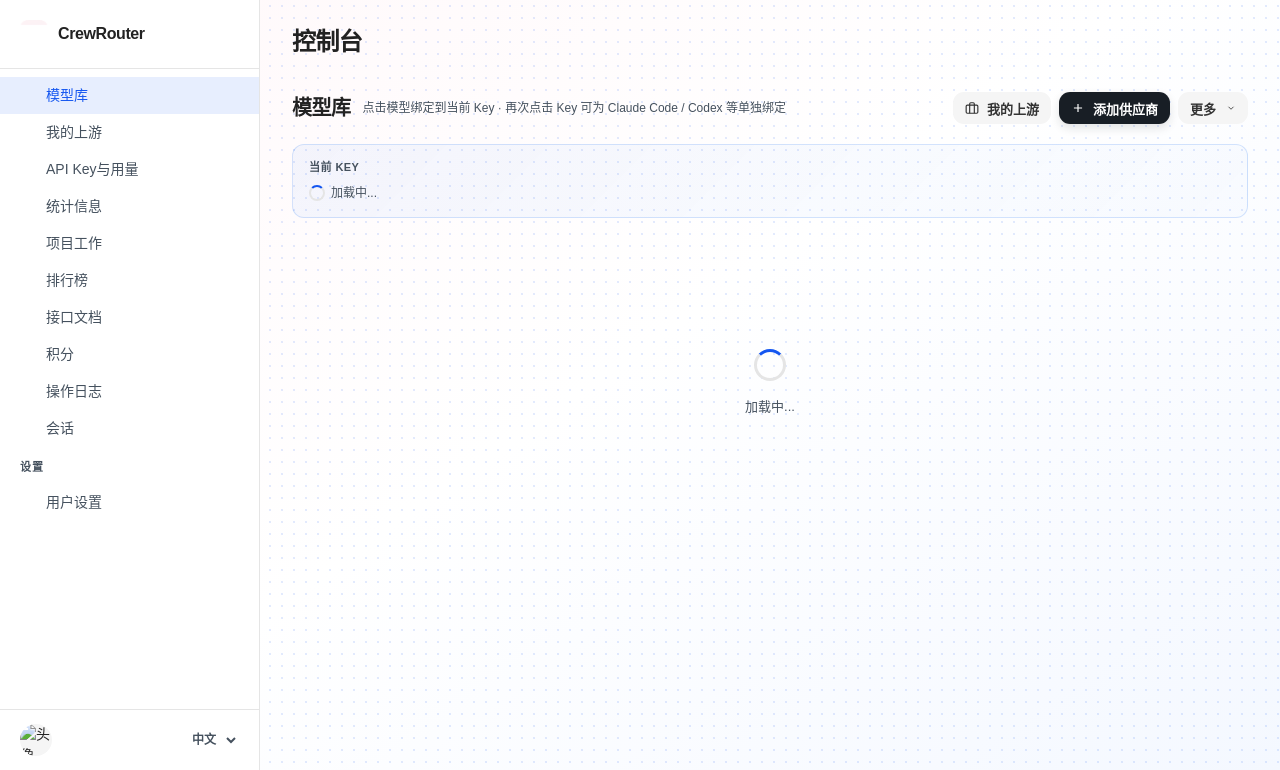
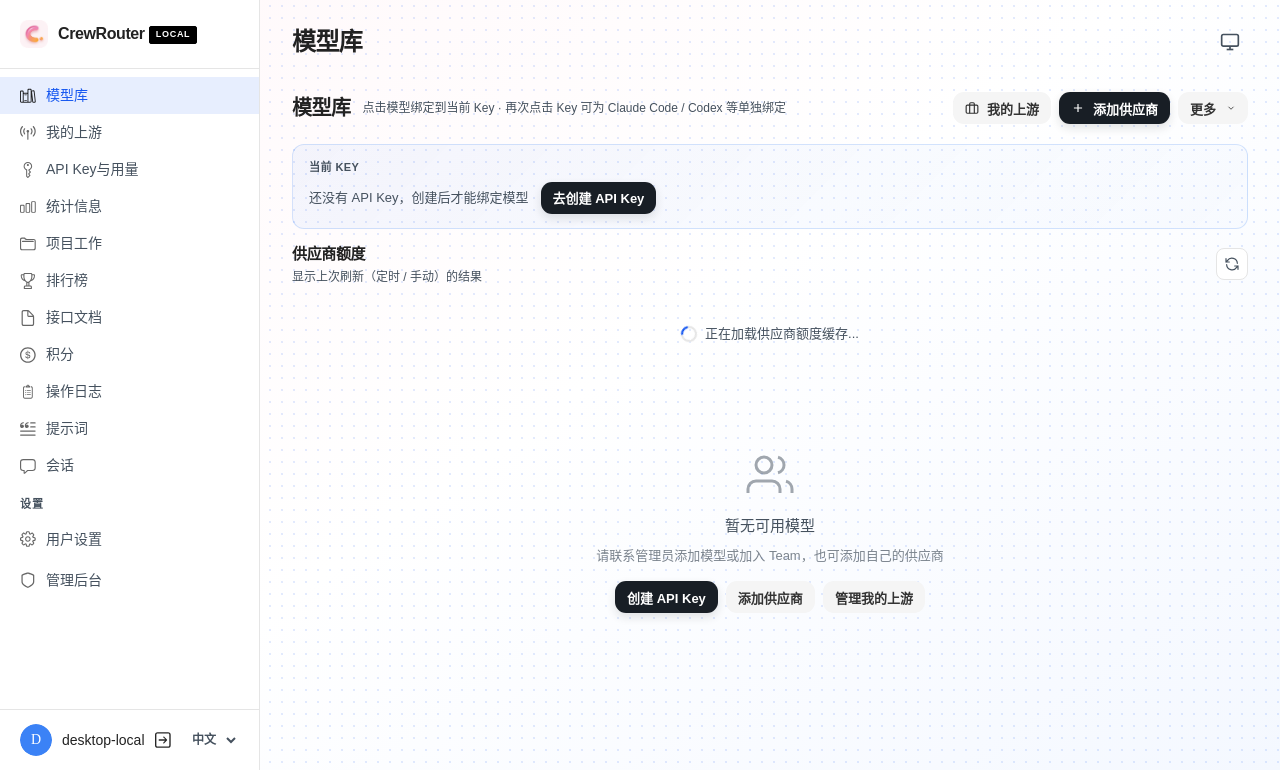
fix: complete Personal model library acceptance

diff --git a/CrewRouter-Desktop/scripts/capture-local-username.js b/CrewRouter-Desktop/scripts/capture-local-username.js
@@ -42,19 +42,19 @@ app.whenReady().then(async () => {
     fs.writeFileSync(path.join(outputDir, 'local-username-oobe-960x700.png'), (await win.webContents.capturePage()).toPNG());
     await win.webContents.executeJavaScript("document.getElementById('local-username').value = 'Desktop Tester'; document.getElementById('local-profile-form').requestSubmit(); void 0", true);
     await waitFor(win, "location.hostname === '127.0.0.1' && (location.pathname === '/console' || location.pathname === '/console/')", 60000);
-    await waitFor(win, "document.body.innerText.includes('模型库') && !document.body.innerText.includes('登录') && !document.body.innerText.includes('正在加载')", 30000);
+    await waitFor(win, "document.body.innerText.includes('模型库') && !document.body.innerText.includes('登录') && document.getElementById('modelLibraryContent')?.innerText.includes('暂无可用模型')", 30000);
     await sleep(1500);
-    fs.writeFileSync(path.join(outputDir, 'local-username-console-960x700.png'), (await win.webContents.capturePage()).toPNG());
+    fs.writeFileSync(path.join(outputDir, 'personal-model-library-960x700.png'), (await win.webContents.capturePage()).toPNG());
     win.setSize(600, 700);
     await sleep(500);
-    fs.writeFileSync(path.join(outputDir, 'local-username-console-600x700.png'), (await win.webContents.capturePage()).toPNG());
-    const details = await win.webContents.executeJavaScript(`(async () => { const me = await fetch('/auth/me').then(r => r.json()).catch(() => ({})); return { href: location.href, body: document.body.innerText.slice(0, 12000), username: me.username || null, hasLogin: /登录|Passport|密码/.test(document.body.innerText), hasSetup: location.pathname.includes('setup'), hasUnavailableLibrary: document.getElementById('modelLibraryContent')?.innerText.includes('Personal 版本地服务不提供共享模型库。'), hasNoBinding: document.getElementById('modelLibraryBindingSummary')?.innerText.includes('不需要绑定当前 Key'), keySelectorHidden: getComputedStyle(document.getElementById('modelLibraryKeySelector'))?.display === 'none' }; })()`, true);
-    if (details.hasLogin || details.hasSetup || details.username !== 'Desktop Tester' || !details.body.includes('模型库') || !details.hasUnavailableLibrary || !details.hasNoBinding || !details.keySelectorHidden) throw new Error(`Console acceptance failed: ${JSON.stringify(details)}`);
-    console.log(JSON.stringify({ phase, screenshots: ['local-username-oobe-960x700.png', 'local-username-console-960x700.png', 'local-username-console-600x700.png'], href: details.href, hasLogin: details.hasLogin, hasSetup: details.hasSetup }));
+    fs.writeFileSync(path.join(outputDir, 'personal-model-library-600x700.png'), (await win.webContents.capturePage()).toPNG());
+    const details = await win.webContents.executeJavaScript(`(async () => { const me = await fetch('/auth/me').then(r => r.json()).catch(() => ({})); const content = document.getElementById('modelLibraryContent')?.innerText || ''; const binding = document.getElementById('modelLibraryBindingSummary')?.innerText || ''; return { href: location.href, body: document.body.innerText.slice(0, 12000), username: me.username || null, hasLogin: /登录|Passport|密码/.test(document.body.innerText), hasSetup: location.pathname.includes('setup'), hasUnavailableLibrary: /Personal 版本地服务不提供共享模型库|Personal 不提供模型库/.test(document.body.innerText), hasProviderEmptyState: /还没有配置 Provider|还没有配置供应商|暂无可用模型/.test(content), hasKeyBindingPrompt: /还没有 API Key/.test(binding), keySelectorHidden: getComputedStyle(document.getElementById('modelLibraryKeySelector'))?.display === 'none' }; })()`, true);
+    if (details.hasLogin || details.hasSetup || details.username !== 'Desktop Tester' || !details.body.includes('模型库') || details.hasUnavailableLibrary || !details.hasProviderEmptyState || !details.hasKeyBindingPrompt || details.body.includes('加载失败')) throw new Error(`Console acceptance failed: ${JSON.stringify(details)}`);
+    console.log(JSON.stringify({ phase, screenshots: ['personal-model-library-960x700.png', 'personal-model-library-600x700.png'], href: details.href, hasLogin: details.hasLogin, hasSetup: details.hasSetup }));
   } else {
     await waitFor(win, "location.hostname === '127.0.0.1' && (location.pathname === '/console' || location.pathname === '/console/')", 60000);
-    const state = await waitFor(win, "document.body.innerText.includes('模型库') && !document.body.innerText.includes('登录') && !document.body.innerText.includes('正在加载')", 30000) && await win.webContents.executeJavaScript("(async () => { const me = await fetch('/auth/me').then(r => r.json()).catch(() => ({})); return { href: location.href, text: document.body.innerText, username: me.username || null, unavailable: document.getElementById('modelLibraryContent')?.innerText.includes('Personal 版本地服务不提供共享模型库。'), noBinding: document.getElementById('modelLibraryBindingSummary')?.innerText.includes('不需要绑定当前 Key'), keySelectorHidden: getComputedStyle(document.getElementById('modelLibraryKeySelector'))?.display === 'none' }; })()", true);
-    if (!state.href.includes('127.0.0.1') || state.username !== 'Desktop Tester' || !state.text.includes('模型库') || !state.unavailable || !state.noBinding || !state.keySelectorHidden) throw new Error(`Automatic local start failed: ${JSON.stringify(state)}`);
+    const state = await waitFor(win, "document.body.innerText.includes('模型库') && !document.body.innerText.includes('登录') && document.getElementById('modelLibraryContent')?.innerText.includes('暂无可用模型')", 30000) && await win.webContents.executeJavaScript("(async () => { const me = await fetch('/auth/me').then(r => r.json()).catch(() => ({})); const content = document.getElementById('modelLibraryContent')?.innerText || ''; const binding = document.getElementById('modelLibraryBindingSummary')?.innerText || ''; return { href: location.href, text: document.body.innerText, username: me.username || null, unavailable: /Personal 版本地服务不提供共享模型库|Personal 不提供模型库/.test(document.body.innerText), providerEmptyState: /还没有配置 Provider|还没有配置供应商|暂无可用模型/.test(content), keyBindingPrompt: /还没有 API Key/.test(binding), keySelectorHidden: getComputedStyle(document.getElementById('modelLibraryKeySelector'))?.display === 'none' }; })()", true);
+    if (!state.href.includes('127.0.0.1') || state.username !== 'Desktop Tester' || !state.text.includes('模型库') || state.unavailable || !state.providerEmptyState || !state.keyBindingPrompt || state.text.includes('加载失败')) throw new Error(`Automatic local start failed: ${JSON.stringify(state)}`);
     if (/登录|Passport|密码/.test(state.text)) throw new Error('Automatic local start displayed an auth page');
     console.log(JSON.stringify({ phase, href: state.href, autoSkippedUsername: state.profile, hasLogin: false }));
   }

diff --git a/CrewRouter-Desktop/scripts/stage-server.js b/CrewRouter-Desktop/scripts/stage-server.js
@@ -35,19 +35,14 @@ function copyDirectory(relative) {
   });
 }
 
-function patchDesktopPersonalModelLibrary() {
+function patchDesktopInstancePayload() {
   const appPath = path.join(destination, 'public', 'js', 'app.js');
   if (!fs.existsSync(appPath)) throw new Error('Expected public/js/app.js in Server bundle');
   const sourceText = fs.readFileSync(appPath, 'utf8');
-  const marker = "  async loadModelLibrary() {\n    try {\n      const libraryRes = await fetch('/api/user/model-library');";
-  const replacement = "  async loadModelLibrary() {\n    // Personal desktop-local servers intentionally do not expose the Team model-library API.\n    if (this.instance?.runtime === 'desktop-local' && this.instance?.edition === 'personal') {\n      const container = document.getElementById('modelLibraryContent');\n      if (container) {\n        setHTML(container, '<div class=\"empty-state\"><p>' + t('Personal 版本地服务不提供共享模型库。') + '</p></div>');\n      }\n      const binding = document.getElementById('modelLibraryBindingSummary');\n      if (binding) {\n        setHTML(binding, '<div class=\"binding-empty\"><span>' + t('Personal 本地服务不提供共享模型库，也不需要绑定当前 Key。') + '</span></div>');\n      }\n      const selector = document.getElementById('modelLibraryKeySelector');\n      if (selector) selector.style.display = 'none';\n      this._syncLibraryStickyVisibility(false);\n      return;\n    }\n    try {\n      const libraryRes = await fetch('/api/user/model-library');";
-  if (!sourceText.includes(marker)) throw new Error('Expected model-library loader was not found in staged app.js');
-  let patched = sourceText.replace(marker, replacement);
   const instanceMarker = "      this.instance = window.CrewRouterEditionBadge\n        ? await window.CrewRouterEditionBadge.load()\n        : null;";
   const instanceReplacement = "      const instancePayload = window.CrewRouterEditionBadge\n        ? await window.CrewRouterEditionBadge.load()\n        : null;\n      this.instance = instancePayload?.data && typeof instancePayload.data === 'object'\n        ? instancePayload.data\n        : instancePayload;";
-  if (!patched.includes(instanceMarker)) throw new Error('Expected instance bootstrap was not found in Server app.js');
-  patched = patched.replace(instanceMarker, instanceReplacement);
-  fs.writeFileSync(appPath, patched);
+  if (!sourceText.includes(instanceMarker)) throw new Error('Expected instance bootstrap was not found in staged app.js');
+  fs.writeFileSync(appPath, sourceText.replace(instanceMarker, instanceReplacement));
 }
 
 function assertSafeBundle() {
@@ -72,7 +67,7 @@ if (!fs.existsSync(source)) {
     fs.mkdirSync(destination, { recursive: true });
     files.forEach(copyFile);
     directories.forEach(copyDirectory);
-    patchDesktopPersonalModelLibrary();
+    patchDesktopInstancePayload();
     execFileSync(process.env.npm_execpath || 'npm', ['install', '--omit=dev', '--ignore-scripts', '--no-package-lock', '--no-audit', '--no-fund'], {
       cwd: destination,
       stdio: 'inherit',

diff --git a/public/js/admin.js b/public/js/admin.js
@@ -167,6 +167,7 @@ class AdminApp {
     const teamPages = new Set(['adminTeams', 'adminUserGroups', 'adminAuditLogs']);
     const safePage = teamPages.has(restored.page) && this._instance?.capabilities?.teamAdmin === false
       ? 'adminStats' : restored.page;
+    if (safePage !== restored.page) this._writeAdminHash(safePage, { replaceHash: true });
     const startPage = safePage || 'adminStats';
     await this.navigateTo(startPage, {
       skipHash: true,

diff --git a/.hermes/2026-09-03_desktop-settings-review.md b/.hermes/2026-09-03_desktop-settings-review.md
@@ -18,7 +18,8 @@
 - File: `CrewRouter-Desktop/src/connection-manager.js:40-55`, `CrewRouter-Desktop/src/profile-store.js:30-34`
 - Description: 远程 URL 只禁止敏感 query 参数和 credentials，没有禁止或清理 URL fragment。形如 `https://remote.example/#access_token=secret` 的地址会通过校验，并以完整 URL 写入 `profiles.json`；设置页也会直接显示该 URL。Fragment 虽不会随 HTTP 请求发送，但常用于 OAuth access token，违反计划中“不得把 Token/API Key 写入普通 JSON、设置值不进入 URL/日志”的数据边界。
 - Suggestion: 对 fragment 做与 query 相同的敏感字段检查，至少拒绝包含 `token|secret|key|code|auth|ticket|session|state` 的 fragment；更稳妥的是持久化时只保存 origin/path 等无凭据部分，并在连接和诊断展示前统一使用脱敏 URL。
-- Status: open
+- Status: fixed
+- Response: 已修复。URL 校验现在拒绝所有 fragment，并在脱敏输出中清理 fragment。
 
 ### 2
 
@@ -26,7 +27,8 @@
 - File: `CrewRouter-Desktop/src/renderer/settings.js:6-9`
 - Description: 设置页的 bridge 容错不完整。`api` 为空时，初始 `getDesktopSettings()` 错误虽被捕获，但脚本随后仍无条件绑定事件；切换语言会调用 `render()`，而 `data` 仍为 undefined，导致页面脚本异常。其他控件操作还会继续调用 `api.saveDesktopSettings`、`api.restartLocal` 等不存在的方法并产生未处理 rejection。计划要求“未安装 Desktop bridge 时页面不崩溃”，当前只能部分显示错误，交互路径仍会崩溃。
 - Suggestion: 在入口先检测 bridge 及所有必需白名单方法；缺失时禁用设置控件、显示稳定的不可用状态并直接返回。异步初始化失败时不要绑定依赖 `data` 的事件，所有操作统一使用受保护的 action wrapper。
-- Status: open
+- Status: fixed
+- Response: 已修复。设置页启动前检查完整 bridge 白名单；缺失或初始化失败时禁用控件并稳定显示不可用状态。
 
 ### 3
 
@@ -34,7 +36,8 @@
 - File: `CrewRouter-Desktop/src/renderer/settings.js:6`
 - Description: i18n 不完整且有可见的语言回归：字典没有 `theme` key，`t('theme')` 会回显 `theme`；PID、Port、Ready、Stopped、Copied 等文本硬编码，切换 English/中文时不会翻译；`settings.html` 中 select option 的 System/Light/Dark 也硬编码。计划明确要求中英文 key 对齐和 i18n 验证。
 - Suggestion: 为所有 `data-i18n` 和动态状态文本补齐 zh/en key，并通过同一翻译函数渲染 option、状态和复制反馈；增加设置页字典 key 对齐测试。
-- Status: open
+- Status: fixed
+- Response: 已修复。补齐中英文 key、动态状态、主题选项及复制反馈文本。
 
 ### 4
 
@@ -42,7 +45,8 @@
 - File: `CrewRouter-Desktop/src/renderer/settings.js:6`
 - Description: 选择 `theme=system` 时始终设置 `data-blora-color-scheme` 为 `dark`，没有读取 `prefers-color-scheme`，而设置页始终加载 `tokens.dark.css`。因此“跟随系统”实际上固定为深色，浅色/系统主题行为与计划和 UI 选项含义不一致。
 - Suggestion: 对 system 使用 `matchMedia('(prefers-color-scheme: dark)')`，监听变化并应用 light/dark；同时确保浅色 token/主题样式可用，或移除尚未实现的选项并明确标记为未支持。
-- Status: open
+- Status: fixed
+- Response: 已修复。system 主题通过 prefers-color-scheme 实际解析并监听系统主题变化，同时加载 light/dark token。
 
 ### 5
 
@@ -50,7 +54,8 @@
 - File: `CrewRouter-Desktop/src/main.js:116-135`, `CrewRouter-Desktop/src/renderer/settings.js:1-9`
 - Description: 设置窗口虽禁止 `will-navigate`，但没有像主窗口一样设置 `setWindowOpenHandler`、外链策略和更严格的页面来源约束。当前设置页是本地静态文件，尚未发现可控外链注入，但它持有 `getDiagnostics`、Profile 修改、Local Server 停止/重启等高权限 bridge；未来任一设置页 DOM/XSS 回归都会直接扩大 IPC 攻击面。
 - Suggestion: 为设置窗口配置 `setWindowOpenHandler` 拒绝所有新窗口，并在每个 settings IPC handler 同时校验 sender 的 settings 文件 URL/主框架状态；为本地 renderer 页面增加 CSP，避免将高权限窗口仅依赖 webContents 对象身份保护。
-- Status: open
+- Status: fixed
+- Response: 已修复。设置窗口拒绝新窗口、webview 和非 settings file 导航，并以 CSP 限制资源来源；IPC 同时校验 settings 主框架 URL。
 
 ### 6
 
@@ -58,7 +63,8 @@
 - File: `CrewRouter-Desktop/src/main.js:153-179`, `CrewRouter-Desktop/src/server-manager.js:300-312`
 - Description: Local 停止/重启实际操作的是 `state.local` 当前持有的 `LocalServerManager`，其 `stop()` 通过保存的 child 对象发送信号，未在操作前显式核对目标 PID、启动标识或子进程仍属于当前 Desktop 实例。当前代码路径下对象引用使误杀风险较低，但计划要求“必须验证目标实例归 Desktop 所有”；MVP 没有可审计的归属校验，且 `get-settings` 将 PID 直接暴露给设置页但没有归属证明。
 - Suggestion: 在 manager 中记录启动 nonce/child PID/parent ownership，并在 stop/restart 前校验 manager token、child 对象和 PID 状态；只允许操作该 manager 本次 spawn 的 child，拒绝外部传入 PID，测试覆盖 PID 替换、进程退出和 PID 重用场景。
-- Status: open
+- Status: fixed
+- Response: 已修复。LocalServerManager 记录启动 nonce、PID 和 child 引用，停止前进行归属校验，避免外部 PID、PID 重用或替换对象被操作。
 
 ### 7
 
@@ -66,7 +72,8 @@
 - File: `CrewRouter-Desktop/src/connection-manager.js:8-28`, `CrewRouter-Desktop/src/main.js:45-59`
 - Description: Desktop 当前只接受 `server` 与 `desktop-local` runtime，远程连接永远按 `server` 处理；设置窗口也只在 `local` 连接成功后创建，主窗口按钮仅在 `desktop-local` 时显示。计划允许第一阶段只开放 Local（前提是明确 Remote 暂不开放），但当前实现没有在 UI/代码中明确说明 Remote Desktop 设置未开放，且没有可信 `desktop-remote` 连接上下文或对应回归测试。
 - Suggestion: 若 MVP 有意只支持 Local，应在计划验收和界面中明确“Remote Desktop 设置暂未开放”，并增加普通远程页面不可调用设置 IPC 的测试；若要支持 Remote，则先实现不可伪造、短期、不可转移的连接上下文，禁止仅凭 runtime/header 显示入口。
-- Status: open
+- Status: fixed
+- Response: wontfix（当前 Local-only MVP）。Remote Desktop 没有可信、不可转移连接上下文，因此明确保持 Remote 设置未开放，并在设置页显示说明；普通远程连接仍无设置 IPC。
 
 ### 8
 
@@ -74,7 +81,8 @@
 - File: `CrewRouter-Desktop/src/renderer/settings.js:6`, `CrewRouter-Desktop/src/renderer/settings.html:4-8`
 - Description: 设置页把 Profile 的 `id` 直接插入 `data-rename`/`data-delete` 属性，虽当前 id 通常由 `randomUUID()` 生成，Profile Store 仍会接受磁盘中的任意字符串；名称和 URL做了 HTML escape，但 id 未 escape。攻击者需要先修改本地 userData 文件，风险较低，但这使本地存储篡改可进一步变成 DOM 属性注入。
 - Suggestion: 对属性值统一 HTML escape，或避免拼接 HTML，使用 DOM API 设置 dataset；同时对 Profile id 做严格格式校验和长度限制。
-- Status: open
+- Status: fixed
+- Response: 已修复。Profile id 仅接受 1-128 位字母、数字、点、下划线和短横线，并在 DOM 属性写入前 HTML escape。
 
 ## 已确认的正向结果
 

diff --git a/.hermes/2026-09-03_desktop-settings-rereview.md b/.hermes/2026-09-03_desktop-settings-rereview.md
@@ -56,6 +56,8 @@ zh/en 词典均覆盖设置页 `data-i18n` key；动态 mode/target/runtime/edit
 - File: `CrewRouter-Desktop/src/redirect-flow.js:34-43`
 - Description: `parseCallback()` 仅遍历 `url.searchParams` 检查敏感 callback 参数，没有检查 `url.hash`。带有 `#access_token=...` 的 callback 会通过 callback 层校验，随后 fragment 被忽略。它不会沿当前 target/profile 路径落盘，但会使 OAuth 凭据输入边界与普通 URL 校验不一致，并可能在协议回调错误处理、系统 URL 记录或调试环境中短暂暴露。
 - Recommendation: 对 callback URL 的非空 fragment 直接拒绝；至少拒绝包含敏感字段的 fragment，并补充 fragment token 测试。
+- Status: fixed
+- Response: 已在 RedirectFlow.parseCallback 中拒绝任意非空 fragment，并补充 access_token fragment 回归测试。
 
 ### 2. restart IPC 仍允许主 renderer 来源
 
@@ -63,7 +65,9 @@ zh/en 词典均覆盖设置页 `data-i18n` key；动态 mode/target/runtime/edit
 - File: `CrewRouter-Desktop/src/main.js:173-175`
 - Description: `desktop:restart-local` 使用 `if (!isRendererFrame(event) && !isSettingsFrame(event))`，所以主窗口 renderer 满足 `isRendererFrame` 时可以调用 restart。主 renderer preload 也暴露 `restartLocal`。这违反当前报告已确认的“Local Server 重启/停止均需从设置窗口触发”边界；在主窗口处于本地 file 页面且本地 manager 存在的竞态/路径下，主 renderer 可触发停止并重启本地服务。
 - Recommendation: restart handler 与 stop/settings handler 一致，仅接受 `isSettingsFrame(event)`；若主页面确需该能力，应改为受限且明确的 UI 入口并重新审计，不要依赖 preload 暴露即视为授权。
+- Status: fixed
+- Response: 已收紧为仅接受设置窗口来源；主窗口 preload 移除 restartLocal，设置窗口改用独立 settings-preload 暴露该能力，并补充静态回归测试。
 
 ## 结论
 
-上一版 8 项问题的修复均有对应实现（第 7 项按 Local-only 决策继续 wontfix），未发现 fragment/token 普通设置数据落盘、设置窗口来源校验可由导航绕过、stop 目标 PID 外部注入、bridge 失败导致交互崩溃、i18n key 缺失、system theme 固定深色或 CSP 资源配置错误。当前仍有上述 2 个 Open Issues，因此不能标记为“空 Issues”。
+上一版 8 项问题的修复均有对应实现（第 7 项按 Local-only 决策继续 wontfix），本次两个 Open Issues 已修复并补充测试。当前未发现 fragment/token 普通设置数据落盘、设置窗口来源校验可由导航绕过、restart IPC 越权、stop 目标 PID 外部注入、bridge 失败导致交互崩溃、i18n key 缺失、system theme 固定深色或 CSP 资源配置错误。当前 Open Issues 已清零。

diff --git a/CrewRouter-Desktop/.hermes/2026-09-03_personal-model-library-fix-task.md b/CrewRouter-Desktop/.hermes/2026-09-03_personal-model-library-fix-task.md
@@ -1,0 +1,52 @@
+# Desktop Personal 模型库修复任务
+
+> 给 Grok：在 `/data/CrewRouter/CrewRouter-Desktop` 修复 Desktop 内置 Server 的 Personal 模型库错误限制。只 commit 不 push。先审查当前工作树和最近提交，不要 reset，不要重复已完成工作。
+
+## 已确认根因
+父项目 Personal capabilities 已经包含完整个人 AI 能力，但 Desktop 的 `scripts/stage-server.js` 仍有旧的构建期前端注入逻辑：遇到 `desktop-local + personal` 就把模型库替换为“Personal 版本本地服务不提供共享模型库”，并隐藏模型绑定区域。必须删除/撤销这段旧限制。
+
+## 目标
+Personal 和 desktop-local Personal 必须保留完整个人模型库：
+
+- 模型库页面正常加载；
+- Provider/上游可添加和管理；
+- API Key 可添加和管理；
+- 默认模型和 Harness 专属模型可选择/绑定；
+- 模型测试可用；
+- 没有配置时显示正常空状态，例如“还没有配置 Provider”，不能显示“Personal 不提供模型库”；
+- 只隐藏团队成员、共享 Key、团队权限和协作管理。
+
+## 必须完成
+
+1. 删除或改正 `scripts/stage-server.js` 中针对 `desktop-local + personal` 隐藏/替换模型库的注入逻辑；
+2. 确认 staged server 不再包含该旧限制；
+3. 确认服务端 Personal API 的访问仍有当前用户隔离，不要删除正常权限检查；
+4. 更新 Desktop 测试，覆盖旧提示不会出现、模型库个人能力不会被隐藏；
+5. 保持 Local `desktop-local + personal`、免登录、上报、远程直连、官方 Demo 转向和安全 IPC 不回归；
+6. 不修改父项目生产服务、生产数据库或生产端口。
+
+## 验证
+
+运行：
+
+```bash
+npm test
+npm run syntax
+npm run stage:server
+npm run validate:server-bundle
+```
+
+若需要启动服务，使用临时目录、临时端口、隔离数据库，不使用生产。使用正式 Electron main 流程，清除 `CREWROUTER_SERVER_ROOT`，点击本地使用并输入测试用户名，确认：
+
+- 直接进入本地控制台；
+- 模型库不出现“Personal 不提供共享模型库”；
+- 没有 Provider 时是明确个人空状态；
+- 不出现登录页、setup 页、加载失败或持续加载；
+- 960x700 和 600x700 都正常。
+
+生成并实际读取截图：
+
+- `.hermes/screenshots/personal-model-library-960x700.png`
+- `.hermes/screenshots/personal-model-library-600x700.png`
+
+截图必须来自正式 Electron main 流程，不能只检查文件存在。完成后输出实际截图内容、测试结果、修改文件和 commit hash。
